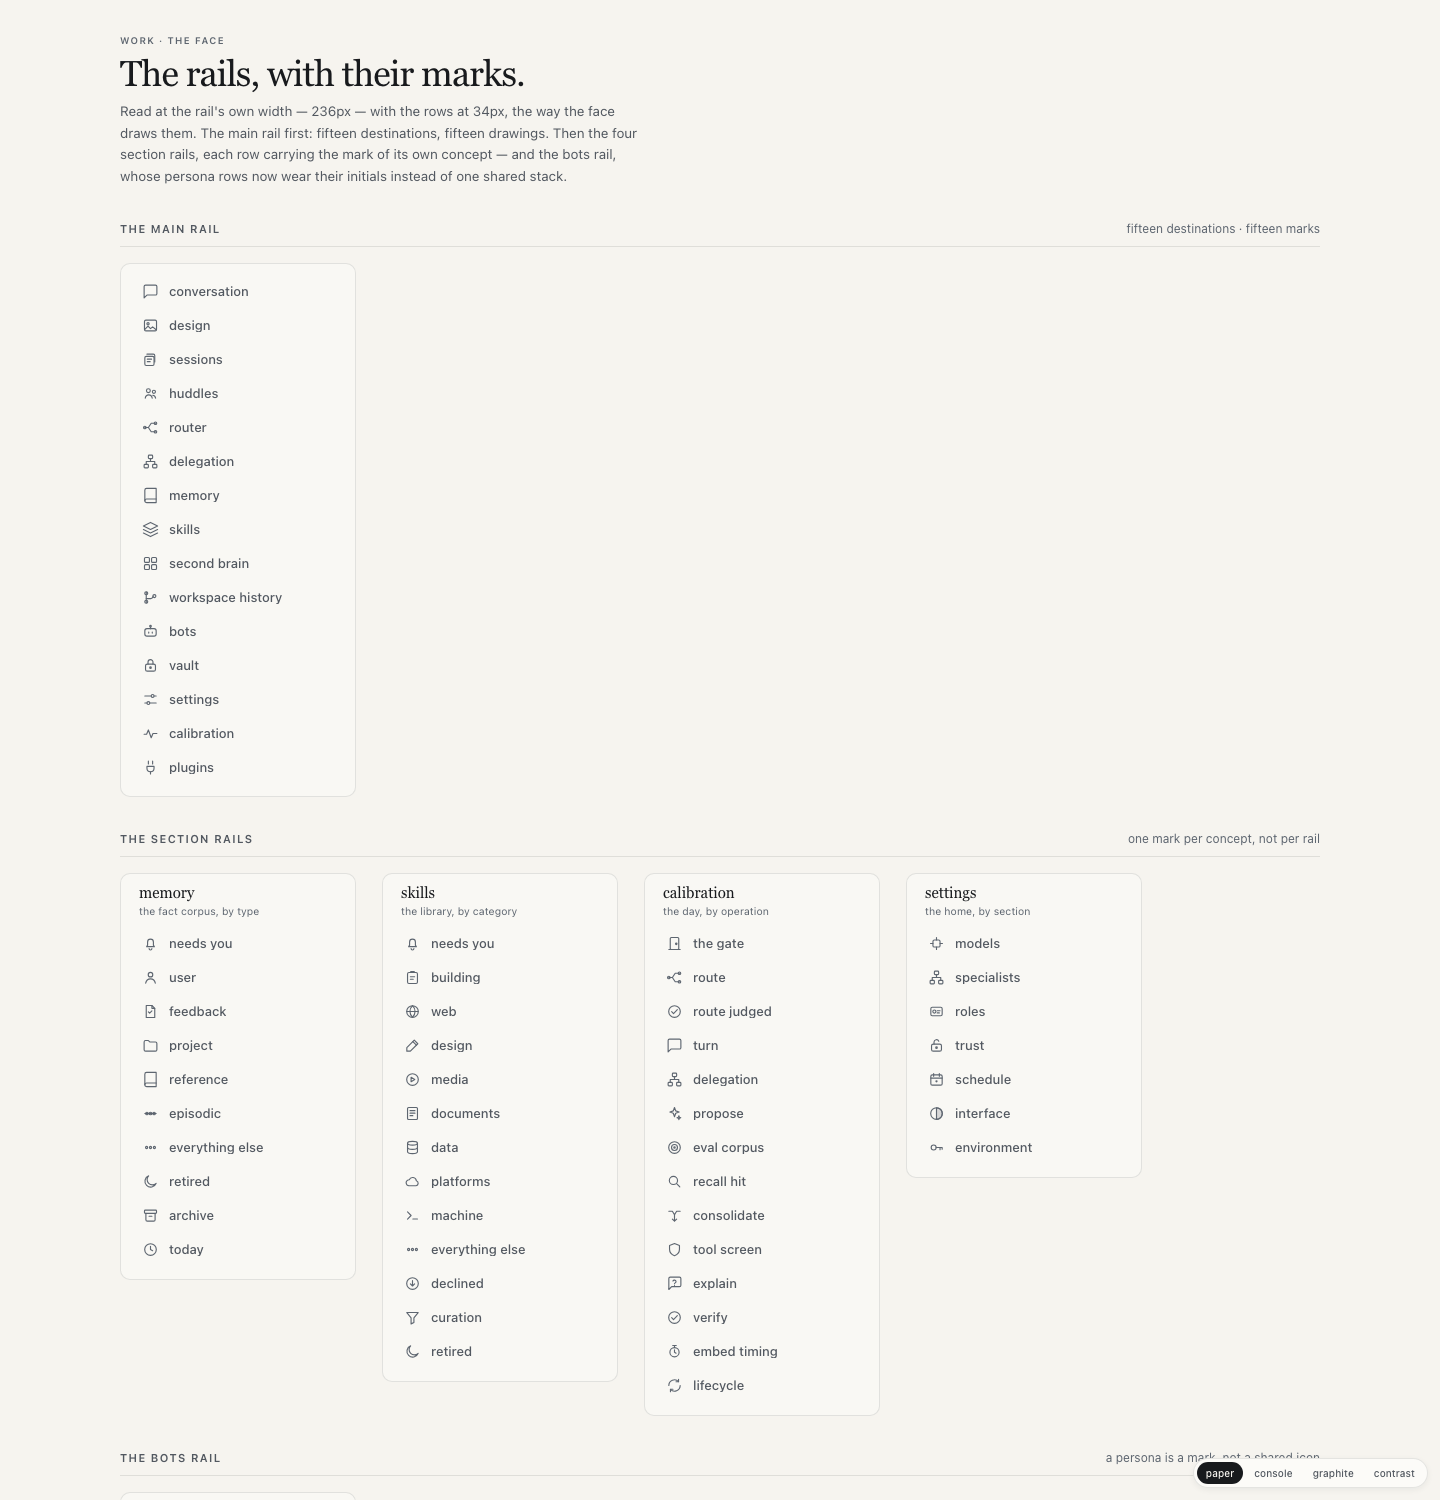
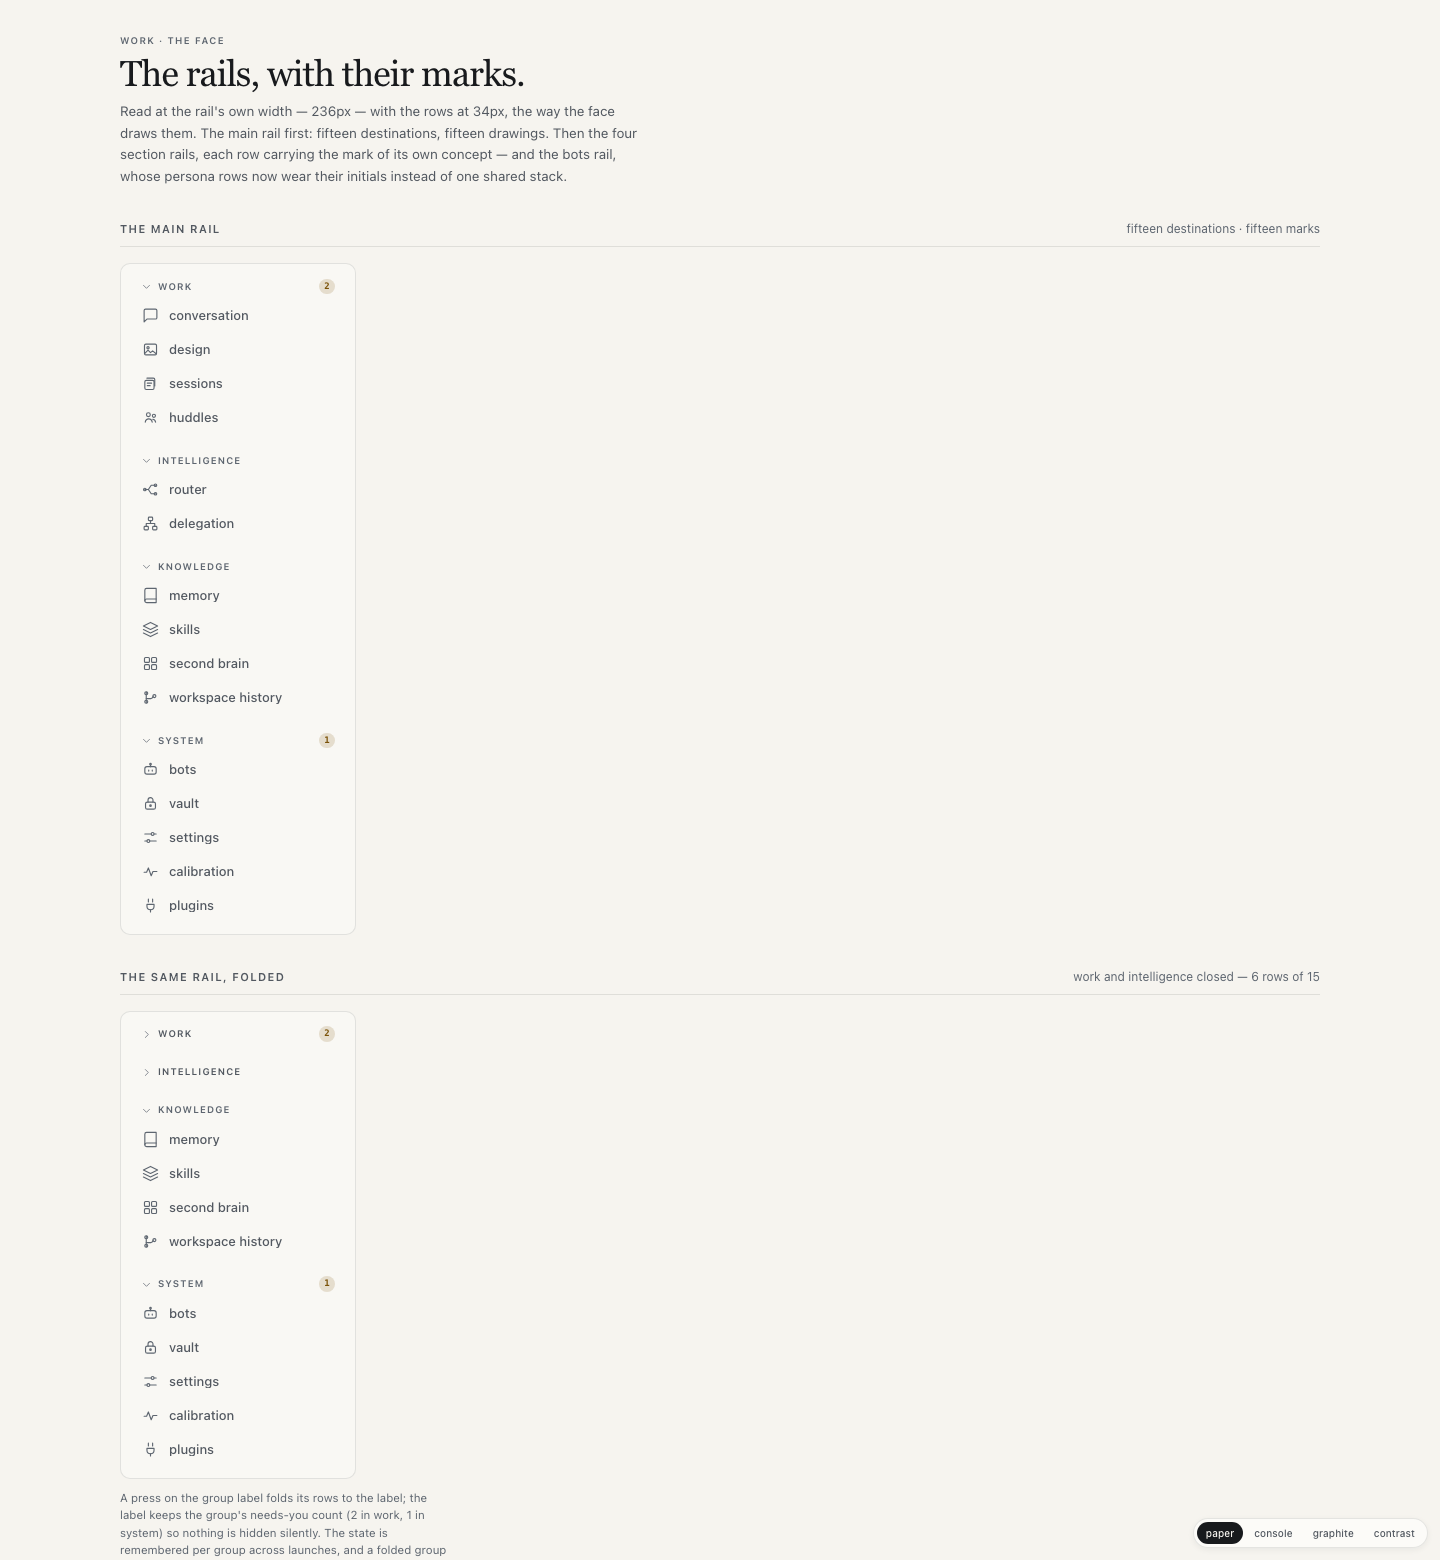
docs(mockups): the rail's groups fold

diff --git a/docs/plans/mockups/2026-11-04-icons/icons.js b/docs/plans/mockups/2026-11-04-icons/icons.js
@@ -565,23 +565,24 @@ const ICONS = {
   }
 };
 
-const DESTINATIONS = [
-  ['chat', 'conversation'],
-  ['design', 'design'],
-  ['sessions', 'sessions'],
-  ['huddles', 'huddles'],
-  ['router', 'router'],
-  ['delegation', 'delegation'],
-  ['memory', 'memory'],
-  ['skills', 'skills'],
-  ['second-brain', 'second brain'],
-  ['workspace-history', 'workspace history'],
-  ['bots', 'bots'],
-  ['vault', 'vault'],
-  ['settings', 'settings'],
-  ['calibration', 'calibration'],
-  ['plugins', 'plugins']
+const LABELS = {
+  chat: 'conversation', design: 'design', sessions: 'sessions', huddles: 'huddles',
+  router: 'router', delegation: 'delegation', memory: 'memory', skills: 'skills',
+  'second-brain': 'second brain', 'workspace-history': 'workspace history',
+  bots: 'bots', vault: 'vault', settings: 'settings', calibration: 'calibration',
+  plugins: 'plugins'
+};
+
+// The rail's four groups: the categories that fold.
+const GROUPS = [
+  ['work', ['chat', 'design', 'sessions', 'huddles']],
+  ['intelligence', ['router', 'delegation']],
+  ['knowledge', ['memory', 'skills', 'second-brain', 'workspace-history']],
+  ['system', ['bots', 'vault', 'settings', 'calibration', 'plugins']]
 ];
+
+// What a folded group says it holds: the needs-you count, never hidden.
+const NEEDS = { work: 2, system: 1 };
 
 const RAILS = [
   { name: 'memory', why: 'the fact corpus, by type', rows: [
@@ -712,10 +713,34 @@ function railRow(key, label) {
   return row;
 }
 
+function renderMainRail(host, foldedGroups) {
+  GROUPS.forEach(([group, keys]) => {
+    const folded = foldedGroups.indexOf(group) >= 0;
+    const section = el('section', 'rail-section');
+    section.dataset.folded = String(folded);
+    const head = el('button', 'rail-group');
+    head.setAttribute('aria-expanded', String(!folded));
+    const chev = el('span', 'rail-chev');
+    chev.appendChild(svgFor('chevron', 11));
+    head.appendChild(chev);
+    head.appendChild(el('span', 'rail-group-name', group));
+    if (NEEDS[group]) head.appendChild(el('span', 'rail-needs', String(NEEDS[group])));
+    section.appendChild(head);
+    keys.forEach((key) => {
+      const row = railRow(key, LABELS[key]);
+      if (folded) row.hidden = true;
+      section.appendChild(row);
+    });
+    host.appendChild(section);
+  });
+}
+
 function renderRails() {
   const main = document.getElementById('main-rail');
   if (!main) return;
-  DESTINATIONS.forEach(([key, label]) => main.appendChild(railRow(key, label)));
+  renderMainRail(main, []);
+  const foldedRail = document.getElementById('folded-rail');
+  if (foldedRail) renderMainRail(foldedRail, ['work', 'intelligence']);
 
   const host = document.getElementById('rails');
   RAILS.forEach((rail) => {

diff --git a/docs/plans/mockups/2026-11-04-icons/mockup.css b/docs/plans/mockups/2026-11-04-icons/mockup.css
@@ -96,6 +96,7 @@
 }
 
 * { box-sizing: border-box; }
+[hidden] { display: none !important; }
 body {
   margin: 0; background: var(--page); color: var(--ink);
   font: 13.5px/1.55 var(--text); -webkit-font-smoothing: antialiased;
@@ -205,3 +206,27 @@ button { font: inherit; color: inherit; border: 0; background: none; padding: 0;
 .theme-bar button[aria-pressed="true"] { background: var(--ink); color: var(--page); }
 
 @media (prefers-reduced-motion: reduce) { * { transition: none !important; } }
+
+/* the groups: a label that folds its rows */
+.rail-section + .rail-section { margin-top: 14px; }
+.rail-group {
+  display: flex; align-items: center; gap: 6px; width: 100%;
+  min-height: 24px; padding: 0 10px; border-radius: 6px; text-align: left;
+}
+.rail-group:hover { background: var(--raised); }
+.rail-chev {
+  width: 11px; height: 11px; display: grid; place-items: center;
+  color: var(--ink-tertiary);
+  transform: rotate(-90deg); transition: transform 120ms cubic-bezier(.2, 0, 0, 1);
+}
+.rail-section[data-folded="true"] .rail-chev { transform: rotate(180deg); }
+.rail-group-name {
+  flex: 1; font: 600 9.5px/1.4 var(--text);
+  letter-spacing: .11em; text-transform: uppercase; color: var(--ink-tertiary);
+}
+.rail-needs {
+  min-width: 16px; padding: 1px 5px; border-radius: 999px;
+  background: color-mix(in srgb, var(--warn) 16%, transparent);
+  color: var(--warn); font: 600 9px/1.5 var(--mono); text-align: center;
+}
+.rail-section[data-folded="true"] .rail-group-name { color: var(--ink-secondary); }

diff --git a/docs/plans/mockups/2026-11-04-icons/rails.html b/docs/plans/mockups/2026-11-04-icons/rails.html
@@ -19,6 +19,14 @@
   </section>
 
   <section class="section">
+    <div class="section-head"><h2>the same rail, folded</h2><span class="why">work and intelligence closed — 6 rows of 15</span></div>
+    <div class="rail-board">
+      <nav class="rail-col" id="folded-rail" aria-label="the main rail, folded"></nav>
+    </div>
+    <p class="caption">A press on the group label folds its rows to the label; the label keeps the group's needs-you count (2 in work, 1 in system) so nothing is hidden silently. The state is remembered per group across launches, and a folded group keeps its divider so the rail's rhythm holds.</p>
+  </section>
+
+  <section class="section">
     <div class="section-head"><h2>the section rails</h2><span class="why">one mark per concept, not per rail</span></div>
     <div class="rail-board" id="rails"></div>
   </section>

diff --git a/docs/plans/mockups/2026-11-04-icons/README.md b/docs/plans/mockups/2026-11-04-icons/README.md
@@ -13,7 +13,7 @@ in `src/gui/assets/app.js`.
 | page | what it shows |
 |---|---|
 | `sheet.html` | Every key at its four real sizes — 13 in a transcript card, 14 in the palette, 17 in a rail, 18 in a section rail — with its meaning and use. A redrawn key shows **was** above and its replacement below. |
-| `rails.html` | The main rail (fifteen destinations), the four section rails (memory, skills, calibration, settings) and the bots rail, read at 236px with 34px rows — the context that matters. |
+| `rails.html` | The main rail (fifteen destinations), **the same rail with two groups folded**, the four section rails (memory, skills, calibration, settings) and the bots rail, read at 236px with 34px rows — the context that matters. |
 | `toggle.html` | The rail head with the collapse control as a chevron **alone**, in both modes. |
 | `zoom.html` | The drawings most at risk at 17px, at 68px (17 × 4): the eye judges pixels here, not intent. |
 
@@ -41,6 +41,17 @@ in `src/gui/assets/app.js`.
 The sheet itself caught one more: `repo` was used by memory's "project"
 row and by every workspace project but had no drawing — it rendered the
 unknown state in the first render of `rails.html`.
+
+## The groups fold
+
+Each group label on the main rail is a control: a press folds its rows to
+the label, and the label keeps the group's **needs-you count** so nothing
+is hidden silently. `rails.html` draws the open rail and the same rail
+with **work** and **intelligence** closed — six rows of fifteen, roughly
+240px returned to the screen. The state is remembered per group across
+launches; a folded group keeps its divider so the rail's rhythm holds; in
+icons mode the labels are hidden, so every row shows and the fold is
+restored when the rail expands.
 
 ## The principles the drawings follow
 

diff --git a/docs/plans/2026-11-04-icons.md b/docs/plans/2026-11-04-icons.md
@@ -101,6 +101,12 @@ a check), `unknown` (a circled question mark).
   plan replaces that surface and its rail is the rooms column.
 - **Palette:** reads the same table, so a destination's mark is the same
   in the rail and in ⌘K.
+- **The groups fold.** Each group label becomes a control: a press folds
+  its rows to the label — the label carries the group's needs-you count so
+  nothing is hidden silently — and a second press restores them. The state
+  is remembered per group across launches, and a folded group keeps its
+  divider so the rail's rhythm holds. In icons mode the labels are hidden,
+  so every row shows; the fold is remembered for full mode.
 - **Pane tabs** stay words: a tab strip, not a rail.
 
 ## The collapse control
@@ -146,7 +152,13 @@ writing a label it no longer has.
 - [ ] **C11 — the gate.** fmt, clippy `-D warnings`, release build and
       `cargo test` exit 0; the harness count read from its own line, and
       the existing cases stay green.
-- [ ] **C12 — the delivery.** The deployed `~/.fleet/bin/fleet` serves the
+- [ ] **C13 — the groups fold.** Each group label on the main rail (work,
+      intelligence, knowledge, system) is a press that folds its rows to
+      the label and back; a folded group names the needs-you count it
+      holds; the state persists across launches and is drawn on the sheet
+      in both states. In icons mode the rows are all shown (the labels are
+      there hidden), and the fold is restored when the rail expands.
+- [ ] **C14 — the delivery.** The deployed `~/.fleet/bin/fleet` serves the
       new `app.js` (the served file carries the new table), the dmg is
       rebuilt, and the branch is pushed.
 
